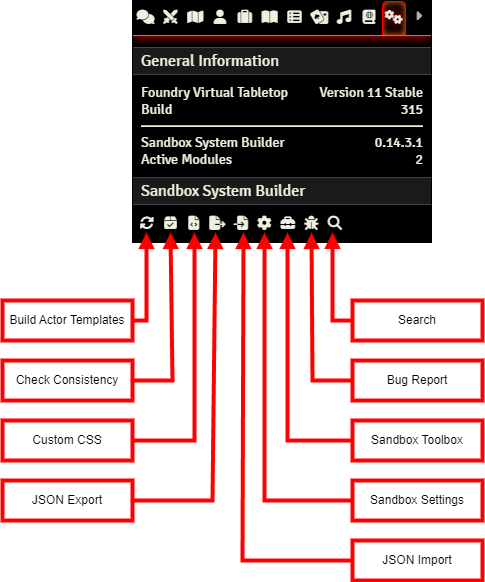
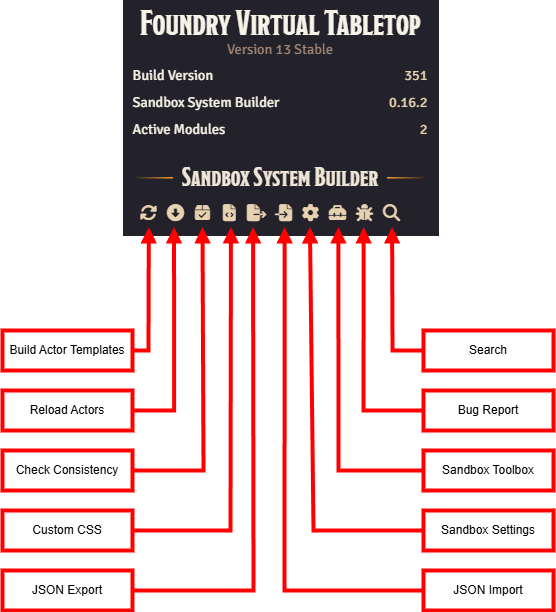
Doc update

diff --git a/docs/help/sandbox_toolbar.md b/docs/help/sandbox_toolbar.md
@@ -10,6 +10,10 @@ The toolbar is only showed for GMs.
 
 Re-builds all actor templates. This is the equivalence of clicking Rebuild Sheet on every actor template.
 
+### Reload Actor s
+
+Reloads all actors. This is the equivalence of clicking Reload on every actor.
+
 ### Check Consistency
 
 Checks and makes sure that all items are consistent. 
